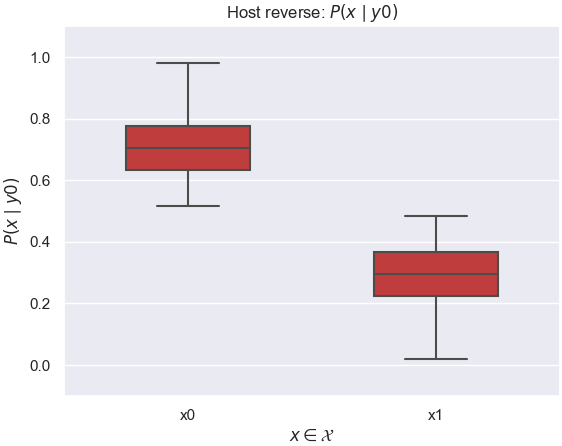
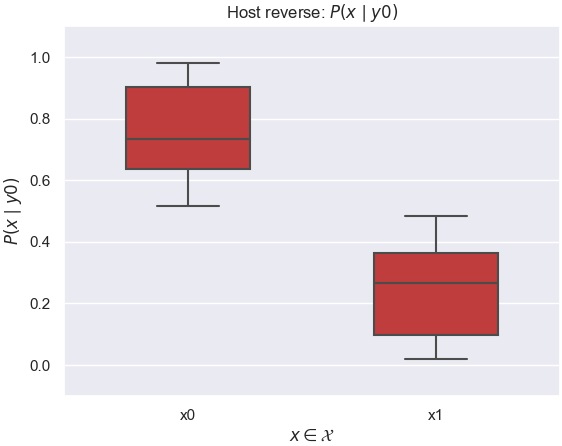
disable checkpointing and clean redundant checkpoints for storage saving

Changed region(s): [[0.2117, 0.1749, 0.4537, 0.3498], [0.6655, 0.6121, 0.9075, 0.7578], [0.6655, 0.5538, 0.8772, 0.583]]

diff --git a/src/main/script_call.py b/src/main/script_call.py
@@ -60,17 +60,17 @@ def run_n_times(n, game, losses, loading_run: bool):
 if __name__ == '__main__':
     for m in pu.MATRIX_PREDEFINED_POS:
         losses = {
-            pu.CONT: pu.MATRIX_PREDEFINED_POS[0],
-            pu.HOST: m,
+            pu.CONT: m,
+            pu.HOST: pu.MATRIX_PREDEFINED_POS[0],
         }
-        run_n_times(0, pu_games.MONTY_HALL, losses, loading_run=True)
+        run_n_times(1, pu_games.MONTY_HALL, losses, loading_run=False)
         
     for m in pu.MATRIX_PREDEFINED_NEG:
         losses = {
-            pu.CONT: pu.MATRIX_PREDEFINED_POS[0],
-            pu.HOST: m,
+            pu.CONT: m,
+            pu.HOST: pu.MATRIX_PREDEFINED_POS[0],
         }
-        run_n_times(0, pu_games.MONTY_HALL, losses, loading_run=True)
+        run_n_times(1, pu_games.MONTY_HALL, losses, loading_run=False)
         
     # for m in pu.MATRIX_PREDEFINED_POS:
     #     losses = {

diff --git a/src/main/main.py b/src/main/main.py
@@ -49,16 +49,16 @@ def run(args: Optional[Dict[str, Any]]):
             'algorithm': marl.PPO,
             'game': pu_games.MONTY_HALL,
             pu.CONT: pu.MATRIX_PREDEFINED_POS[0],
-            pu.HOST: pu.MATRIX_PREDEFINED_NEG[6],
+            pu.HOST: pu.MATRIX_PREDEFINED_POS[6],
             'debug_mode': False,
             'show_example': True,
             'ray': True,
             'learn': False,
             'expectation_run': True,
             'predict': True,
-            'show_figure': False,
+            'show_figure': True,
             'show_eval': True,
-            'save_figures': True,
+            'save_figures': False,
             'save_progress': False,
             'min_total_time_s': 40,
             'max_total_time_s': 40,

diff --git a/src/main/clean_redundant_checkpoints.py b/src/main/clean_redundant_checkpoints.py
@@ -1,0 +1,20 @@
+from __future__ import annotations
+
+import os
+import shutil
+from pathlib import Path
+
+
+def run():
+    root = Path(f'output_ray/PPO/monty_hall/')
+    for experiment in [f.path for f in os.scandir(root) if f.is_dir()]:
+        print(experiment)
+        for trial in [f.path for f in os.scandir(experiment) if f.is_dir()]:
+            print(trial)
+            for checkpoint in [f.path for f in os.scandir(trial) if f.is_dir()][:-1]:
+                print(checkpoint)
+                shutil.rmtree(checkpoint)
+                
+
+if __name__ == '__main__':
+    run()

diff --git a/src/lib_marl/model_wrapper.py b/src/lib_marl/model_wrapper.py
@@ -191,7 +191,6 @@ class ModelWrapper:
             "name": self.name,
             "config": self._create_model_config(),
             "stop": CombinedStopper(marl.ConjunctiveStopper(ExperimentPlateauStopper(self.metric, mode="max", top=10, std=0.0001), marl.TotalTimeStopper(total_time_s=self.custom_config['min_total_time_s'])), marl.TotalTimeStopper(total_time_s=self.custom_config['max_total_time_s'])),
-            "checkpoint_freq": 5,
             "checkpoint_at_end": True,
             "local_dir": self.get_local_dir(),
             "verbose": 1,
